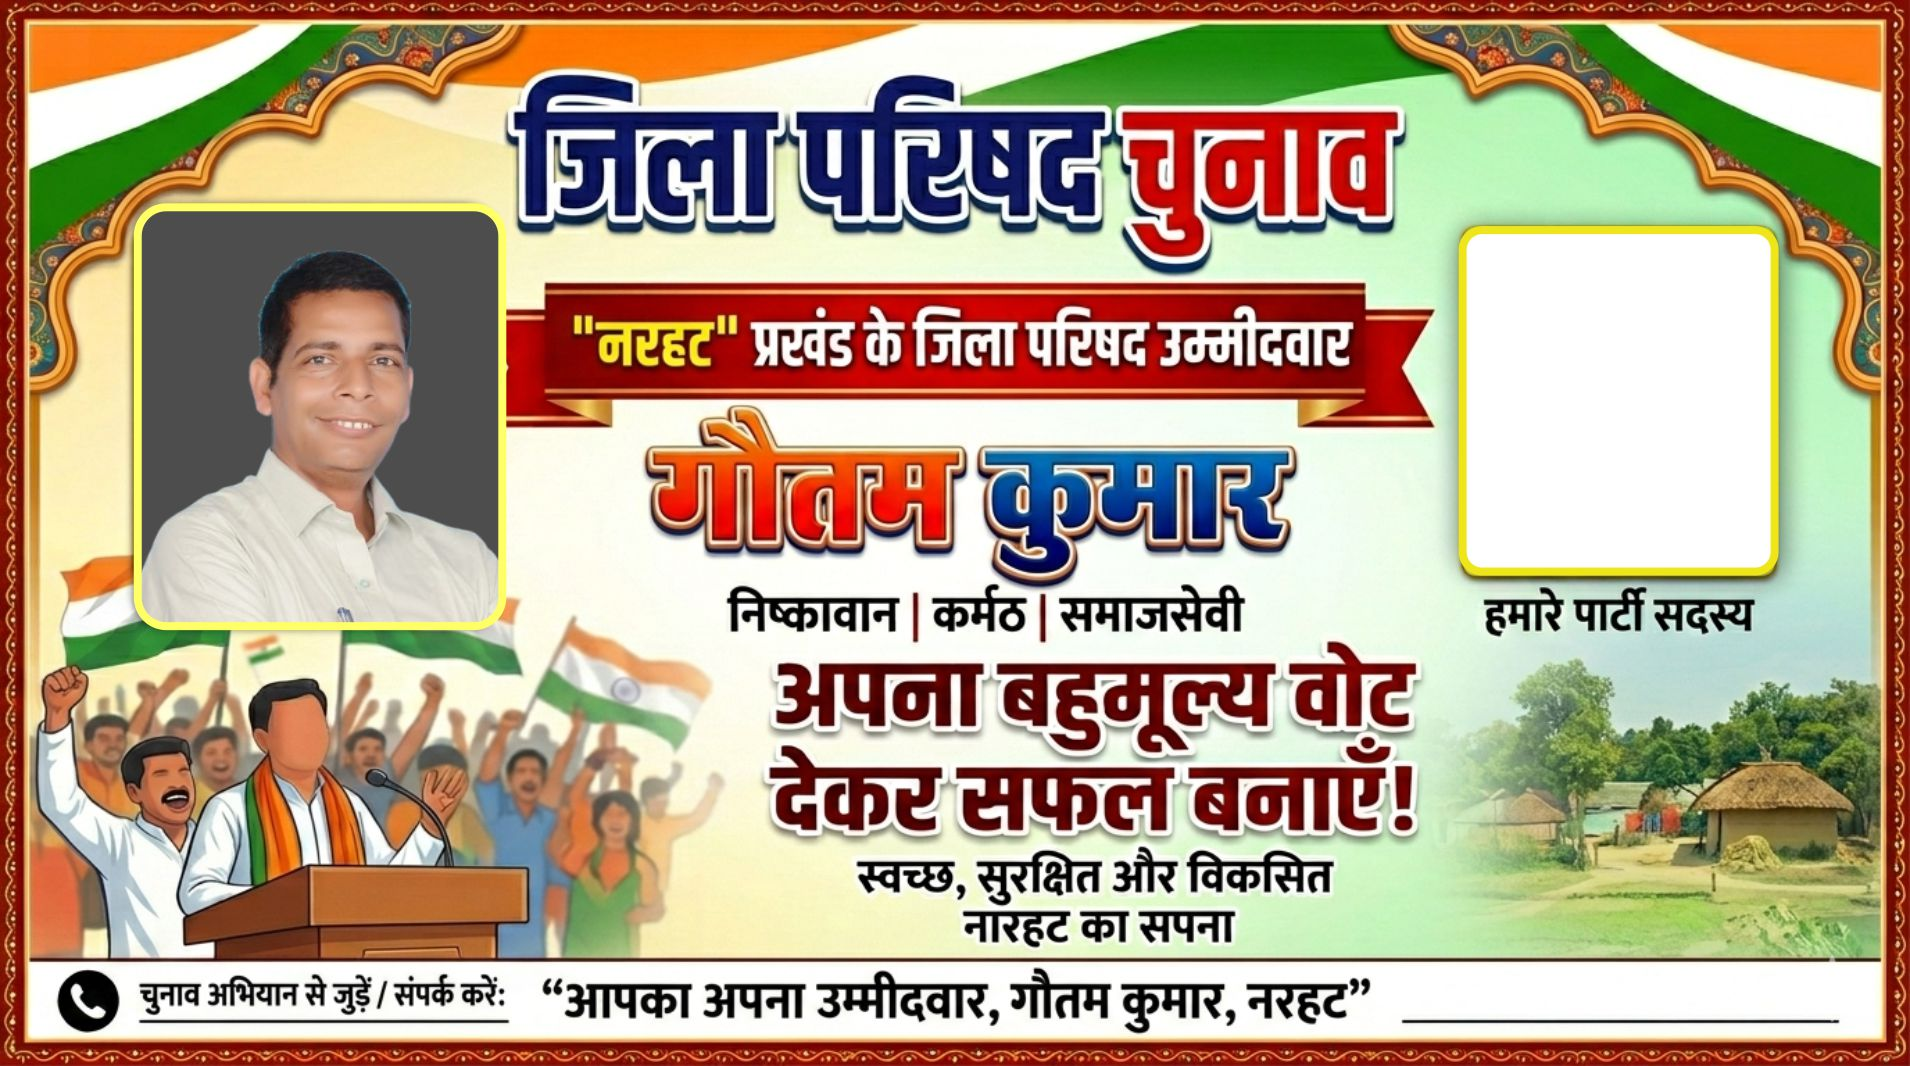
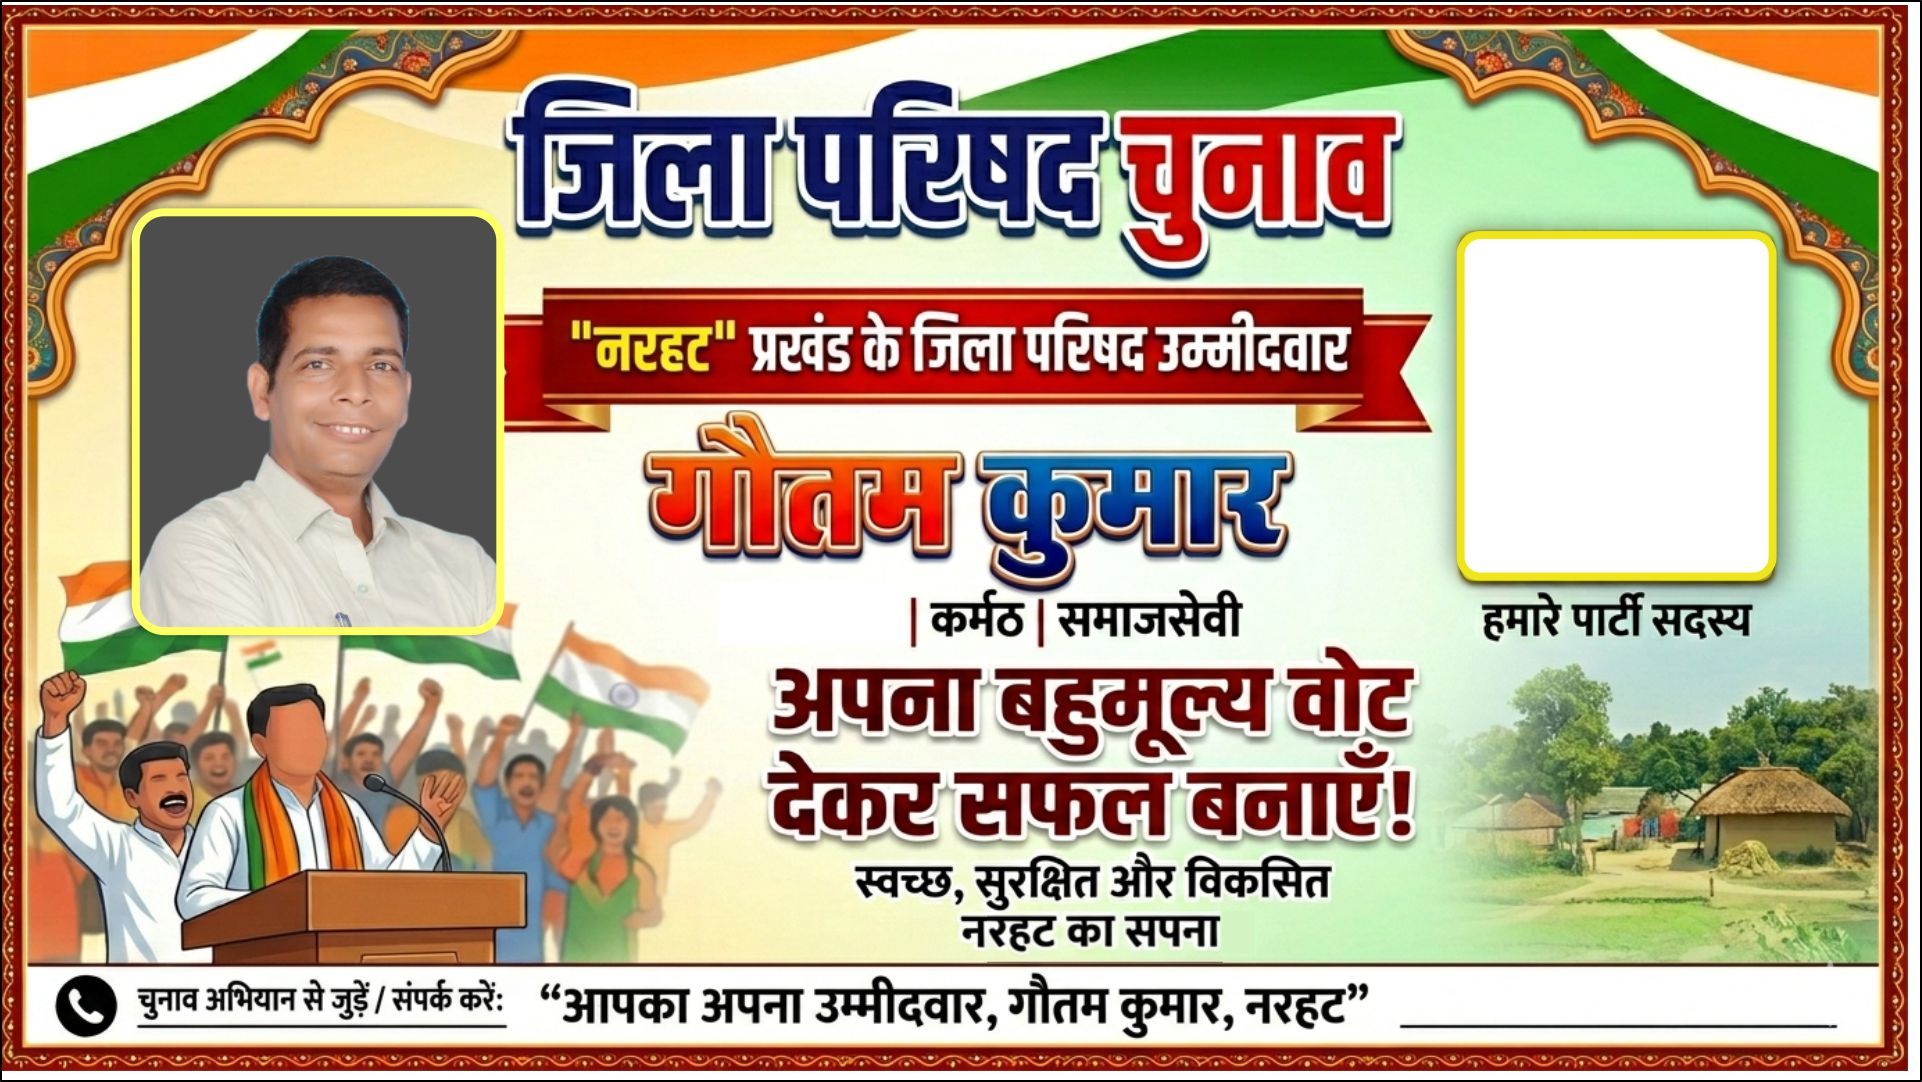
Add files via upload

diff --git a/B.Ed.html b/B.Ed.html
@@ -48,28 +48,24 @@
     /* Left photo responsive */
     /* Default: PC / large screens */
     #left-photo {
-      position: absolute;
-      left: 720px;
-      top: 110px;
-      width: 160px;
-      height: 190px;   /* PC par fixed height */
-      border-radius: 5px;
-      object-fit: cover;
-      border: 2px solid black;
-    }
+  position: absolute;
+  left: 76%;
+  top: 20%;
+  width: 16%;
+  height: 35%;
+  object-fit: cover;
+  border: 2px solid black;
+}
 
     /* Mobile: 600px se chhota screen (Android, etc.) */
-  @media (max-width: 600px) {
-    #left-photo {
-      position: absolute;
-      left: -1px;
-      top: 280px;
-      width: 160px;
-      height: 190px;
-      border-radius: 5px;
-      object-fit: cover;
-      border: 2px solid black;
-    }
+  @media (max-width:600px){
+  #left-photo{
+    left:76%;
+    top:20%;
+    width:16%;
+    height:35%;
+  }
+
 
     .internub {
       font-size: 26px;
@@ -232,7 +228,7 @@
     // Crop button
     cropBtn.addEventListener("click", () => {
       if (cropper) {
-        const canvas = cropper.getCroppedCanvas({ width: 180, height: 230 });
+        const canvas = cropper.getCroppedCanvas({ width: 160, height: 190 });
         croppedImageDataUrl = canvas.toDataURL();
         previewImg.src = croppedImageDataUrl;
         applyBtn.style.display = "inline-block";
@@ -265,19 +261,31 @@
 downloadBtn.addEventListener("click", async () => {
   const target = document.querySelector(".banner-container");
 
-  html2canvas(target, {
-    useCORS: true, // Rani.jpg, placeholder jaise external images ke liye
-    scale: 2       // high quality
-  }).then((canvas) => {
-    const finalImageUrl = canvas.toDataURL("image/png");
-    const link = document.createElement("a");
-    link.href = finalImageUrl;
-    link.download = "banner_exact_layout.png";
-    document.body.appendChild(link);
-    link.click();
-    document.body.removeChild(link);
-  });
+  // सभी images load होने का इंतजार
+  await Promise.all(
+    Array.from(target.querySelectorAll("img")).map(img => {
+      if (img.complete) return Promise.resolve();
 
+      return new Promise(resolve => {
+        img.onload = resolve;
+        img.onerror = resolve;
+      });
+    })
+  );
+
+  html2canvas(target, {
+    useCORS: true,
+    allowTaint: true,
+    backgroundColor: null,
+    scale: window.devicePixelRatio || 2
+  }).then(canvas => {
+
+    const link = document.createElement("a");
+    link.download = "banner_exact_layout.png";
+    link.href = canvas.toDataURL("image/png", 1.0);
+    link.click();
+
+  });
 });
   </script>
 </body>
